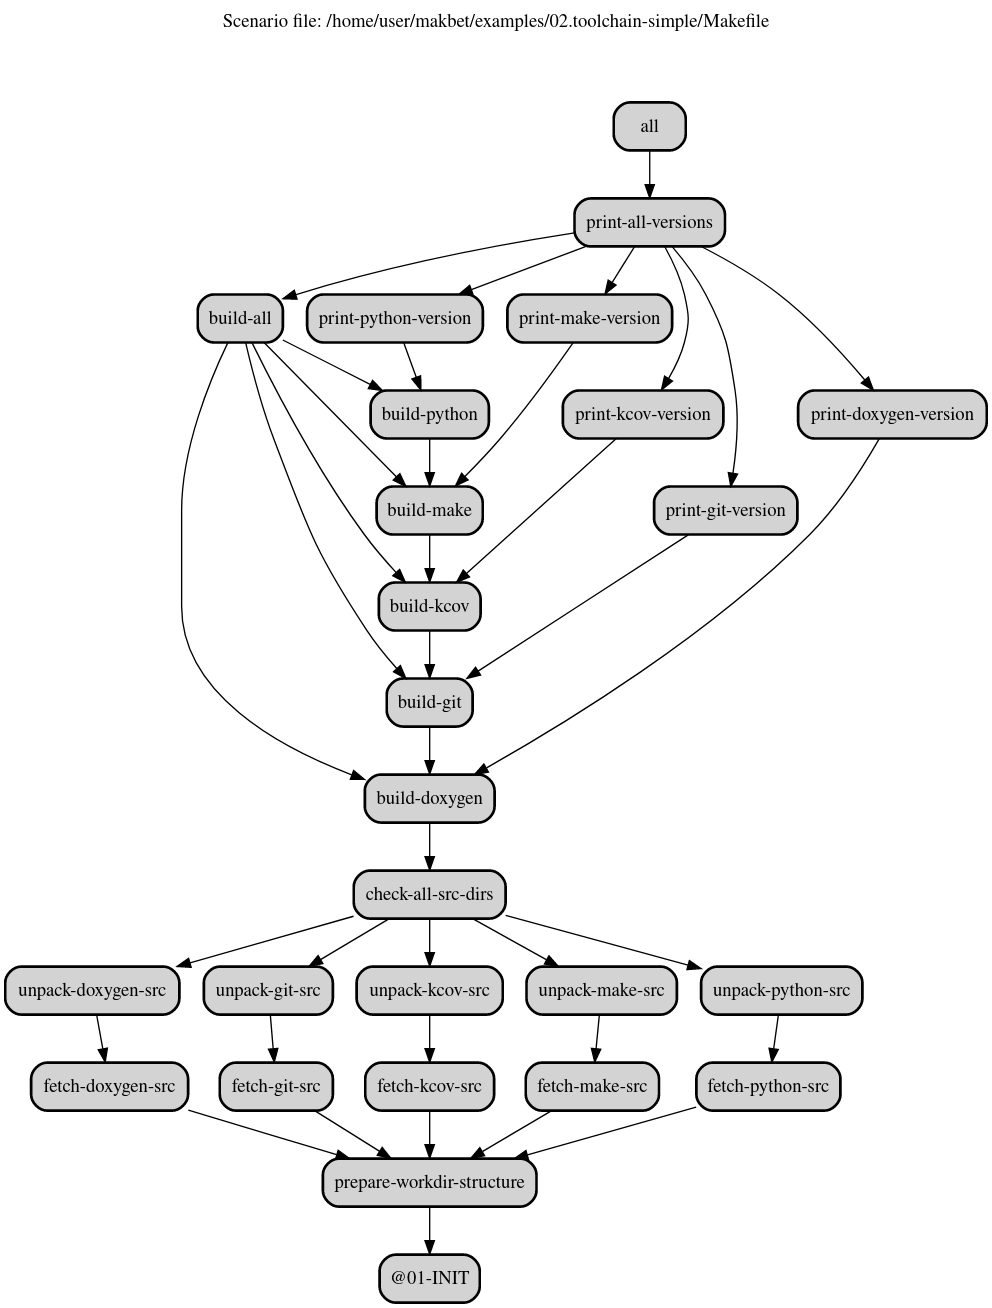
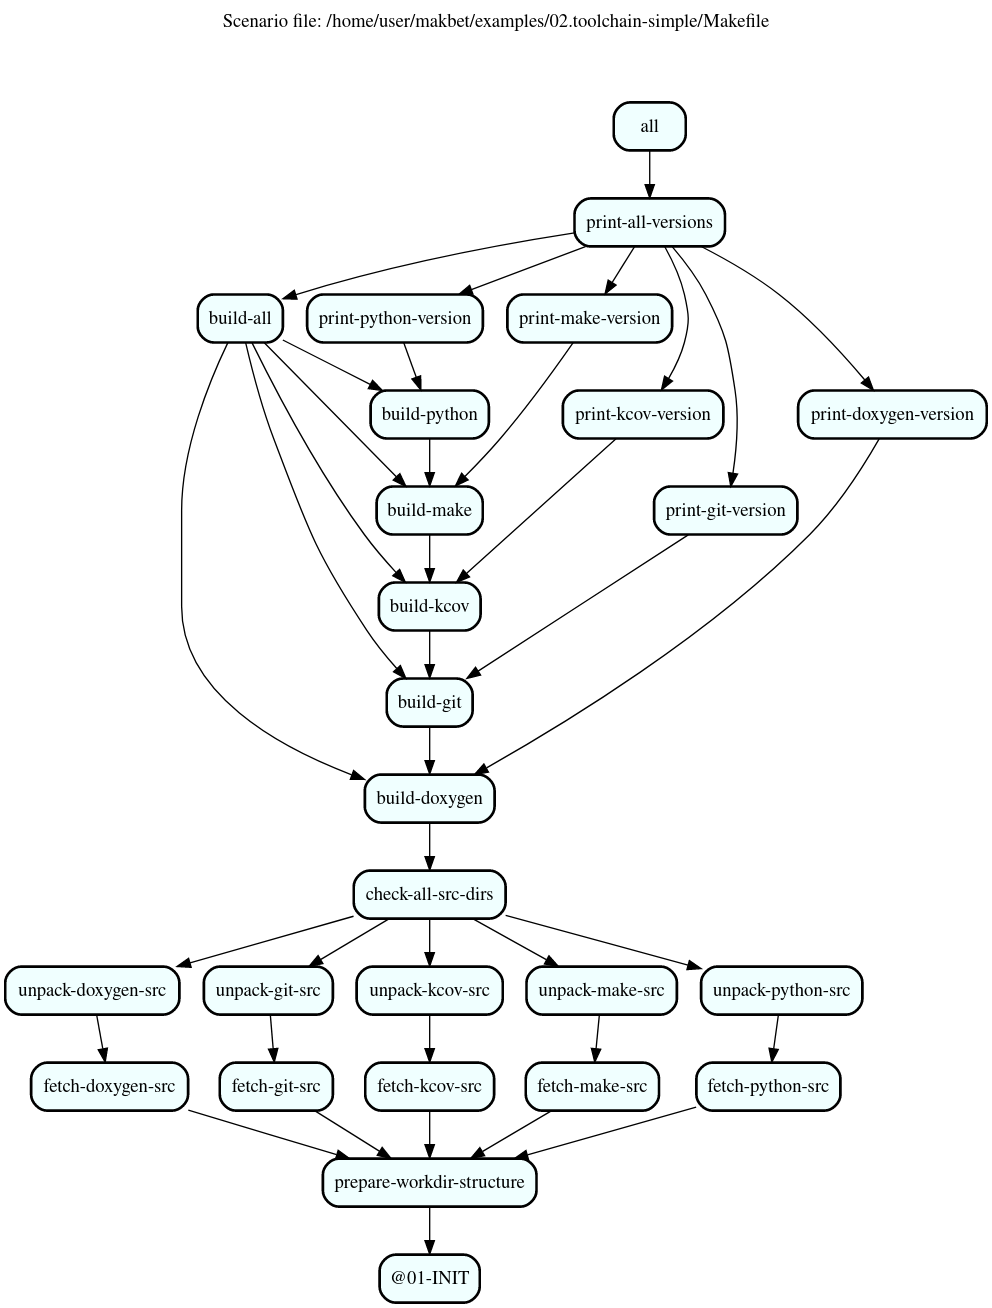
[DEV] Switch dot nodes color to "azure"
Add fillcolor="azure" attribute to global dot node options.

diff --git a/README.rst b/README.rst
@@ -201,7 +201,7 @@ results which can be used for further processing:
   label="Scenario file: /home/user/makbet/examples/01.dummy/Makefile\n\n\n\n";
 
   // Define global options for all nodes.
-  node [shape="box" style="rounded, bold, filled"];
+  node [shape="box" style="rounded, bold, filled" fillcolor="azure"];
 
 
   // TASK_NAME: @01-INIT
